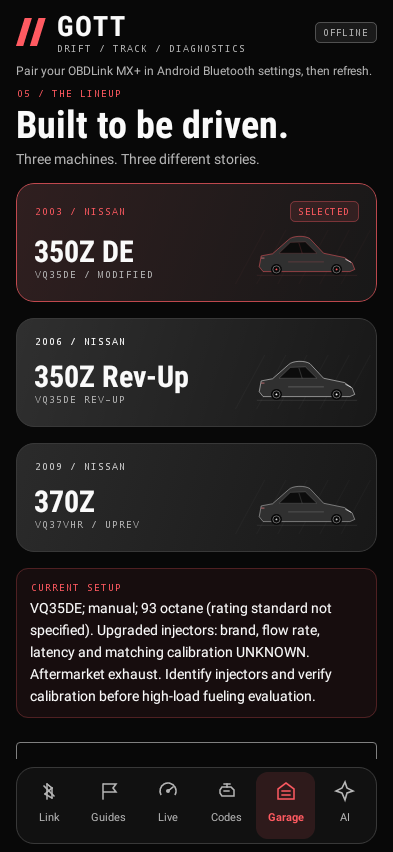
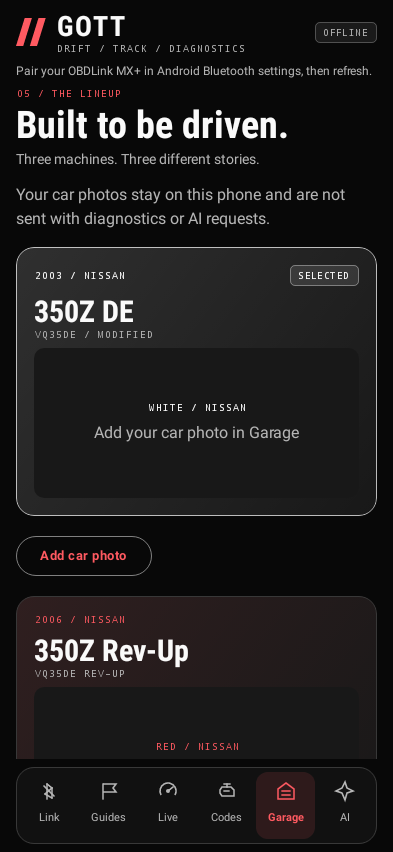
Replace coupe drawings with personal vehicle photo cards

diff --git a/app/src/main/java/com/gottdiagnostics/MainActivity.kt b/app/src/main/java/com/gottdiagnostics/MainActivity.kt
@@ -45,6 +45,25 @@ class MainActivity: ComponentActivity() {
         var ready by remember(guide, state.vehicleId) { mutableStateOf(false) }
         var apiKey by remember { mutableStateOf("") }
         val scope = rememberCoroutineScope()
+        val photoPrefs = remember { getSharedPreferences("vehicle_photos", MODE_PRIVATE) }
+        var photos by remember { mutableStateOf(Vehicles.all.associate { it.id to photoPrefs.getString(it.id, null) }) }
+        var photoVehicle by rememberSaveable { mutableStateOf<String?>(null) }
+        val photoPicker = rememberLauncherForActivityResult(ActivityResultContracts.OpenDocument()) { uri ->
+            val id = photoVehicle
+            photoVehicle = null
+            if(uri != null && id != null) {
+                try {
+                    contentResolver.takePersistableUriPermission(uri, Intent.FLAG_GRANT_READ_URI_PERMISSION)
+                    val old = photos[id]
+                    photoPrefs.edit().putString(id, uri.toString()).apply()
+                    photos = photos + (id to uri.toString())
+                    if(old != null && old != uri.toString() && old !in photos.values) {
+                        runCatching { contentResolver.releasePersistableUriPermission(android.net.Uri.parse(old), Intent.FLAG_GRANT_READ_URI_PERMISSION) }
+                    }
+                    message = ""
+                } catch(e: Exception) { message = "Could not save access to this photo. Choose an image stored on your phone." }
+            }
+        }
         val permission = rememberLauncherForActivityResult(ActivityResultContracts.RequestPermission()) { if(it) model.refresh() else message = "Allow Nearby devices permission in Android app settings." }
         DisposableEffect(state.monitoring, tab) {
             if(state.monitoring) window.addFlags(WindowManager.LayoutParams.FLAG_KEEP_SCREEN_ON)
@@ -67,7 +86,7 @@ class MainActivity: ComponentActivity() {
                 when(tab) {
                     0 -> {
                         RaceHeading("01 / PADDOCK", "Your pit wall.", "Connect your machine. Find the story in the data.")
-                        VehicleHero(Vehicles.get(state.vehicleId))
+                        VehicleHero(Vehicles.get(state.vehicleId), photoUri = photos[state.vehicleId])
                         Row(horizontalArrangement = Arrangement.spacedBy(10.dp)) {
                             OutlinedButton(onClick = { tab = 4 }, modifier = Modifier.weight(1f)) { Text("OPEN GARAGE") }
                             OutlinedButton(onClick = { tab = 2 }, modifier = Modifier.weight(1f)) { Text("LIVE COCKPIT") }
@@ -141,7 +160,25 @@ class MainActivity: ComponentActivity() {
                     }
                     4 -> {
                         RaceHeading("05 / THE LINEUP", "Built to be driven.", "Three machines. Three different stories.")
-                        Vehicles.all.forEach { vehicle -> VehicleHero(vehicle, state.vehicleId == vehicle.id, compact = true, enabled = editable, onClick = { model.selectVehicle(vehicle.id) }) }
+                        Text("Your car photos stay on this phone and are not sent with diagnostics or AI requests.", color = RaceMuted)
+                        Vehicles.all.forEach { vehicle ->
+                            VehicleHero(vehicle, state.vehicleId == vehicle.id, compact = true, enabled = editable,
+                                onClick = { model.selectVehicle(vehicle.id) }, photoUri = photos[vehicle.id])
+                            Row(horizontalArrangement = Arrangement.spacedBy(8.dp)) {
+                                OutlinedButton(enabled = !state.monitoring, onClick = {
+                                    photoVehicle = vehicle.id
+                                    photoPicker.launch(arrayOf("image/*"))
+                                }) { Text(if(photos[vehicle.id] == null) "Add car photo" else "Change photo") }
+                                if(photos[vehicle.id] != null) TextButton(enabled = !state.monitoring, onClick = {
+                                    val old = photos[vehicle.id]
+                                    photoPrefs.edit().remove(vehicle.id).apply()
+                                    photos = photos + (vehicle.id to null)
+                                    if(old != null && old !in photos.values) runCatching {
+                                        contentResolver.releasePersistableUriPermission(android.net.Uri.parse(old), Intent.FLAG_GRANT_READ_URI_PERMISSION)
+                                    }
+                                }) { Text("Remove") }
+                            }
+                        }
                         RacePanel("CURRENT SETUP", Vehicles.get(state.vehicleId).details, vehicleAccent(state.vehicleId))
                         OutlinedTextField(value = state.notes, onValueChange = model::profile, label = { Text("Symptoms / additional vehicle details") }, modifier = Modifier.fillMaxWidth(), minLines = 3, enabled = editable)
                         Text("Disconnect to change vehicle details. Each connection records a snapshot of this profile. AI always uses the profile saved with the recording, even if you later select another car.")

diff --git a/app/src/main/java/com/gottdiagnostics/RaceUi.kt b/app/src/main/java/com/gottdiagnostics/RaceUi.kt
@@ -135,9 +135,9 @@ private val Condensed = FontFamily(Typeface.create("sans-serif-condensed", Typef
     }
 }
 
-internal fun vehicleAccent(id: String) = when(id) { "350z-2006" -> RaceWhite; "370z-2009" -> RaceSilver; else -> RaceAccent }
+internal fun vehicleAccent(id: String) = when(id) { "350z-2006" -> RaceAccent; "370z-2009" -> RaceSilver; else -> RaceWhite }
 
-@Composable internal fun VehicleHero(vehicle: Vehicle, selected: Boolean = true, compact: Boolean = false, onClick: (() -> Unit)? = null, enabled: Boolean = true) {
+@Composable internal fun VehicleHero(vehicle: Vehicle, selected: Boolean = true, compact: Boolean = false, onClick: (() -> Unit)? = null, enabled: Boolean = true, photoUri: String? = null) {
     val accent = vehicleAccent(vehicle.id)
     val click = if(onClick != null) Modifier.clickable(enabled = enabled, role = Role.RadioButton, onClick = onClick).semantics { this.selected = selected } else Modifier
     Surface(modifier = Modifier.fillMaxWidth().clip(RoundedCornerShape(18.dp)).then(click),
@@ -153,42 +153,16 @@ internal fun vehicleAccent(id: String) = when(id) { "350z-2006" -> RaceWhite; "3
                         Text(vehicle.title.removePrefix(vehicle.title.take(5)), style = MaterialTheme.typography.headlineLarge.copy(fontSize = if(compact) 30.sp else 40.sp))
                         RaceEyebrow(when(vehicle.id) { "350z-2006" -> "VQ35DE REV-UP"; "370z-2009" -> "VQ37VHR / UPREV"; else -> "VQ35DE / MODIFIED" }, RaceMuted)
                     }
-                    if(compact) CoupeArt(accent, Modifier.width(104.dp).height(54.dp))
+
                 }
+                VehiclePhoto(vehicle, photoUri, Modifier.fillMaxWidth().height(if(compact) 150.dp else 190.dp).clip(RoundedCornerShape(10.dp)))
                 if(!compact) {
-                    CoupeArt(accent, Modifier.fillMaxWidth().height(92.dp))
                     Row(Modifier.fillMaxWidth(), horizontalArrangement = Arrangement.SpaceBetween) {
                         RaceEyebrow("${vehicle.title.take(4)} MODEL", RaceMuted)
                         RaceEyebrow("REAR-WHEEL DRIVE", RaceMuted)
                     }
                 }
             }
-        }
-    }
-}
-
-/** Stylized coupe illustration, not a photograph or a claim about a car's body modifications. */
-@Composable private fun CoupeArt(accent: Color, modifier: Modifier) {
-    Canvas(modifier) {
-        val x = size.width / 320f; val y = size.height / 100f
-        for(i in 0..5) drawLine(accent.copy(alpha=0.08f), Offset((i*65f-60f)*x,100*y),Offset((i*65f+30f)*x,0f), x)
-        drawLine(accent.copy(alpha=0.25f), Offset(6*x,84*y),Offset(314*x,84*y),x)
-        val body = Path().apply {
-            moveTo(13*x,68*y); lineTo(19*x,48*y); lineTo(54*x,44*y); lineTo(103*x,18*y)
-            cubicTo(116*x,10*y,154*x,10*y,169*x,16*y); lineTo(211*x,43*y); lineTo(275*x,51*y)
-            lineTo(299*x,61*y); lineTo(307*x,73*y); lineTo(292*x,77*y); lineTo(25*x,77*y); close()
-        }
-        drawPath(body, Color(0xFF303030)); drawPath(body, accent, style=Stroke(1.5f*x))
-        val glass = Path().apply { moveTo(74*x,43*y); lineTo(109*x,23*y); lineTo(155*x,22*y); lineTo(190*x,43*y); close() }
-        drawPath(glass, Color(0xFF0C0C0C)); drawPath(glass, accent.copy(alpha=.4f), style=Stroke(x))
-        drawLine(accent.copy(alpha=.5f),Offset(135*x,24*y),Offset(145*x,43*y),x)
-        drawLine(accent.copy(alpha=.6f),Offset(102*x,59*y),Offset(212*x,59*y),x)
-        drawLine(Color(0xFFFFFFFF),Offset(278*x,54*y),Offset(296*x,60*y),2*x)
-        drawLine(RaceRed,Offset(19*x,52*y),Offset(29*x,52*y),2*x)
-        for(cx in listOf(66f,251f)) {
-            drawCircle(Color(0xFF080808),17*x,Offset(cx*x,73*y))
-            drawCircle(Color(0xFF929292),11*x,Offset(cx*x,73*y),style=Stroke(2*x))
-            drawCircle(accent,3*x,Offset(cx*x,73*y))
         }
     }
 }

diff --git a/app/src/main/java/com/gottdiagnostics/VehiclePhotos.kt b/app/src/main/java/com/gottdiagnostics/VehiclePhotos.kt
@@ -1,0 +1,69 @@
+package com.gottdiagnostics
+
+import android.content.Context
+import android.graphics.ImageDecoder
+import android.graphics.BitmapFactory
+import android.net.Uri
+import android.os.Build
+import androidx.compose.foundation.Image
+import androidx.compose.foundation.background
+import androidx.compose.foundation.layout.*
+import androidx.compose.material3.Text
+import androidx.compose.runtime.*
+import androidx.compose.ui.Alignment
+import androidx.compose.ui.Modifier
+import androidx.compose.ui.graphics.asImageBitmap
+import androidx.compose.ui.layout.ContentScale
+import androidx.compose.ui.platform.LocalContext
+import androidx.compose.ui.unit.dp
+import kotlinx.coroutines.Dispatchers
+import kotlinx.coroutines.withContext
+
+internal fun vehiclePaint(id: String) = when(id) {
+    "350z-2006" -> "RED"
+    "370z-2009" -> "SILVER"
+    else -> "WHITE"
+}
+
+/** Images stay on the phone; their URI is never included in diagnostic exports or AI requests. */
+@Composable internal fun VehiclePhoto(vehicle: Vehicle, uri: String?, modifier: Modifier = Modifier) {
+    val context = LocalContext.current
+    var bitmap by remember(uri) { mutableStateOf<android.graphics.Bitmap?>(null) }
+    LaunchedEffect(uri) {
+        bitmap = withContext(Dispatchers.IO) {
+            if(uri == null) null else runCatching { loadVehiclePhoto(context, Uri.parse(uri)) }.getOrNull()
+        }
+    }
+    Box(modifier.background(RacePanel), contentAlignment = Alignment.Center) {
+        val image = bitmap
+        if(image != null) {
+            Image(image.asImageBitmap(), "${vehiclePaint(vehicle.id)} ${vehicle.title}",
+                Modifier.fillMaxSize(), contentScale = ContentScale.Fit)
+        } else {
+            Column(Modifier.padding(16.dp), horizontalAlignment = Alignment.CenterHorizontally,
+                verticalArrangement = Arrangement.spacedBy(8.dp)) {
+                RaceEyebrow("${vehiclePaint(vehicle.id)} / NISSAN", vehicleAccent(vehicle.id))
+                Text(if(uri == null) "Add your car photo in Garage" else "Photo unavailable — choose it again in Garage", color = RaceMuted)
+            }
+        }
+    }
+}
+
+private fun loadVehiclePhoto(context: Context, uri: Uri): android.graphics.Bitmap {
+    if(Build.VERSION.SDK_INT >= 28) {
+        return ImageDecoder.decodeBitmap(ImageDecoder.createSource(context.contentResolver, uri)) { decoder, info, _ ->
+            val scale = (1280f / maxOf(info.size.width, info.size.height)).coerceAtMost(1f)
+            decoder.setTargetSize((info.size.width * scale).toInt().coerceAtLeast(1), (info.size.height * scale).toInt().coerceAtLeast(1))
+            decoder.allocator = ImageDecoder.ALLOCATOR_SOFTWARE
+        }
+    }
+    val bounds = BitmapFactory.Options().apply { inJustDecodeBounds = true }
+    context.contentResolver.openInputStream(uri).use { BitmapFactory.decodeStream(it, null, bounds) }
+    require(bounds.outWidth > 0 && bounds.outHeight > 0)
+    val options = BitmapFactory.Options().apply {
+        inSampleSize = 1
+        while(maxOf(bounds.outWidth, bounds.outHeight) / inSampleSize > 1280) inSampleSize *= 2
+    }
+    return context.contentResolver.openInputStream(uri).use { BitmapFactory.decodeStream(it, null, options) }
+        ?: error("Image could not be decoded")
+}

diff --git a/README.md b/README.md
@@ -1,16 +1,16 @@
-# Gott Diagnostics 1.3
+# Gott Diagnostics 1.4
 
 Native Kotlin / Jetpack Compose Android app for an OBDLink MX+ using Bluetooth Classic SPP. Android 8.0+ (API 26). Includes guided OBD recording and direct, owner-approved OpenAI analysis inside the app.
 
 ## Install
 
-Download `gott-diagnostics-debug.apk` from the GitHub release assets and open it on your phone. Allow installation from the file-opening app. These are development builds, not production-signed releases. The GitHub runner generates a debug signing key for each build, so Android may reject an in-place update. If an earlier version is installed, export any logs you want to keep before uninstalling it and installing 1.3. Uninstalling clears app data. The API key must be entered again after reinstalling. The release's SHA256SUMS.txt identifies the downloadable APK; a local build has a different signing key/checksum.
+Download `gott-diagnostics-debug.apk` from the GitHub release assets and open it on your phone. Allow installation from the file-opening app. These are development builds, not production-signed releases. The GitHub runner generates a debug signing key for each build, so Android may reject an in-place update. If an earlier version is installed, export any logs you want to keep before uninstalling it and installing 1.4. Uninstalling clears app data. The API key must be entered again after reinstalling. The release's SHA256SUMS.txt identifies the downloadable APK; a local build has a different signing key/checksum.
 
 ## Motorsport interface
 
-Version 1.3 adds a red, white and black design with condensed headings, stylized coupe artwork, distinct garage cards, a segmented RPM display and a two-column live telemetry dashboard. All six destinations remain visible in the bottom navigation: Link, Guides, Live, Codes, Garage and AI. Scroll position resets when switching sections, and the Stop recording button stays above the content while recording.
+Version 1.4 replaces the coupe drawings with large personal-photo cards. In Garage, choose Add car photo for each vehicle: white 2003 350Z, red 2006 350Z, and silver 2009 370Z. The Android file picker gives access only to the image you choose. Photo access is saved across app restarts; you can change or remove each photo. Keep the source image on your phone. Photos stay out of diagnostic exports and AI requests. No stock or generated car photos are bundled; until you choose one, the card shows a paint-color label and photo prompt. The red, white and black theme, segmented RPM display and two-column telemetry dashboard remain. All six destinations remain visible in the bottom navigation: Link, Guides, Live, Codes, Garage and AI. Scroll position resets when switching sections, and the Stop recording button stays above the content while recording.
 
-The RPM display is a visual scale, not an ECU redline or a recommended target. Offline/missing readings show dashes and NO DATA; stopped readings are labeled LAST READING. Vehicle illustrations are stylized, not representations of the owner's exact body modifications. The engine protocols, guide conditions, privacy controls and API behavior are unchanged.
+The RPM display is a visual scale, not an ECU redline or a recommended target. Offline/missing readings show dashes and NO DATA; stopped readings are labeled LAST READING. Your selected car photo appears in both the Garage and Paddock. The engine protocols, guide conditions, privacy controls and API behavior are unchanged.
 
 Phone-size captures from the actual Compose UI, rendered locally in Android's host test runtime (offline, no simulated vehicle readings):
 
@@ -22,9 +22,9 @@ Phone-size captures from the actual Compose UI, rendered locally in Android's ho
 
 Choose a vehicle before connecting; all are manual transmission and run owner-reported 93 octane (AKI versus RON was not specified).
 
-- 2003 350Z VQ35DE: upgraded injectors of unknown specification, aftermarket exhaust; matching calibration unknown.
-- 2006 350Z VQ35DE Rev-Up: Kinetix intake manifold, full exhaust, high-flow catalytic converters; tune unknown.
-- 2009 370Z VQ37VHR: cold-air intake, full exhaust with test pipes; UpRev tune believed to match the modifications but not confirmed.
+- White 2003 350Z VQ35DE: upgraded injectors of unknown specification, aftermarket exhaust; matching calibration unknown.
+- Red 2006 350Z VQ35DE Rev-Up: Kinetix intake manifold, full exhaust, high-flow catalytic converters; tune unknown.
+- Silver 2009 370Z VQ37VHR: cold-air intake, full exhaust with test pipes; UpRev tune believed to match the modifications but not confirmed.
 
 Add symptoms or corrections under Garage. Each connection saves a profile snapshot. Analysis uses the profile in the recording, not whichever car you later select.
 

diff --git a/BUILD_VALIDATION.md b/BUILD_VALIDATION.md
@@ -1,4 +1,4 @@
-# Version 1.3 cloud validation
+# Version 1.4 cloud validation
 
 Validated 2026-09-30 using `./scripts/build-cloud.sh --rerun-tasks`.
 
@@ -6,11 +6,11 @@ Validated 2026-09-30 using `./scripts/build-cloud.sh --rerun-tasks`.
 - `testDebugUnitTest`: 24 tests passed, 0 failed, 0 skipped.
 - `lintDebug`: no issues found.
 - APK signature and zip alignment: verified.
-- Local APK size: 8,847,588 bytes.
[1 lines of base64/hex data omitted]
+- Local APK size: 8,863,968 bytes.
[1 lines of base64/hex data omitted]
 - JDK 17.0.16, Gradle 8.9, AGP 8.7.3, Kotlin 2.0.21, SDK/build tools 35.
 
-Two additional local UI checks used a temporary Robolectric 4.14.1 native-graphics/Compose harness on Android API 34, at 393×852 and 320×640 dp. Navigation to all six destinations was verified at standard size; the narrow check verified bottom navigation and the offline cockpit. Actual Android view drawing was captured and inspected. The AI screen's screenshot protection was retained; its heading/navigation was checked without capturing it. These host-only checks and dependencies are not part of the shipped app or standard CI. Captures are in docs/screenshots.
+Two additional local UI checks used a temporary Robolectric 4.14.1 native-graphics/Compose harness on Android API 34 at 393×852 dp. They verified the three paint labels, Android document-picker launch and cancellation, a saved image loading after Activity recreation, and photo removal clearing the stored preference. A 1600×900 local image fixture exercised bounded decoding; this was not a photo of the owner's vehicle. Paddock and Garage captures were inspected and updated in docs/screenshots. Temporary test dependencies are excluded from the final APK. Actual phone document-provider persistence and camera EXIF orientation were not device-tested; API 28+ uses Android ImageDecoder for image orientation, while API 26–27 uses BitmapFactory.
 
 The GitHub release workflow independently rebuilds and runs the 24 unit tests and lint before publishing. Release APKs have a different debug signing key than this local build and earlier releases; use the release's SHA256SUMS.txt. Export wanted logs before uninstalling an older development build.
 
